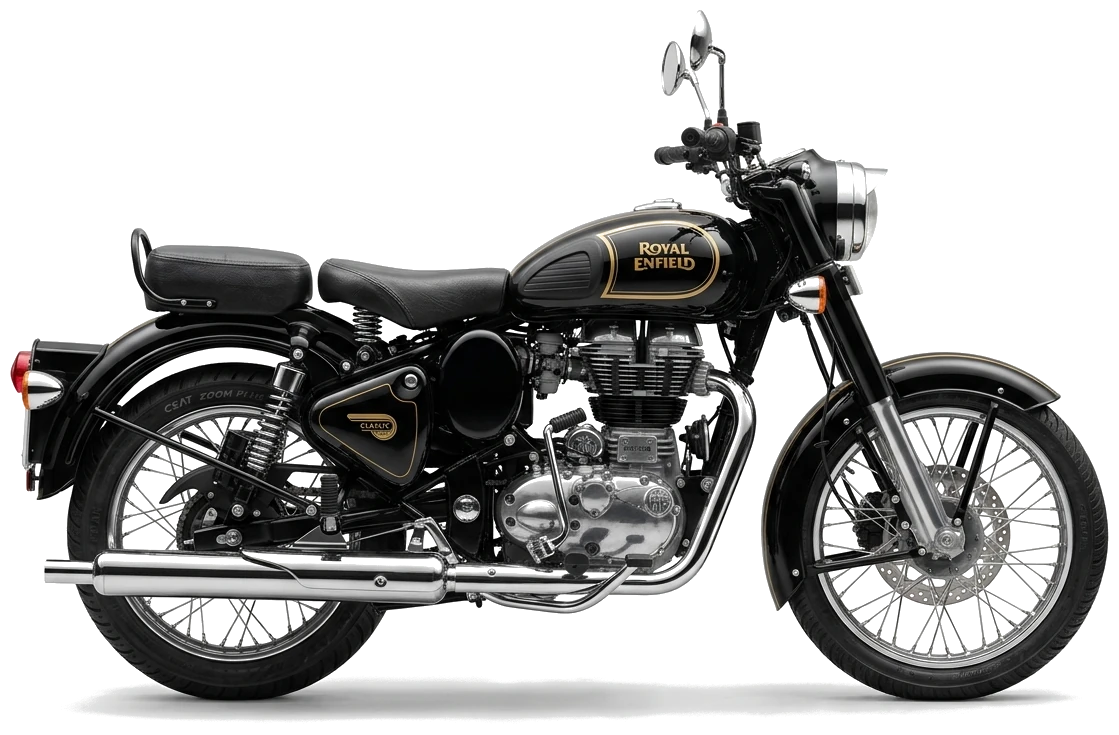
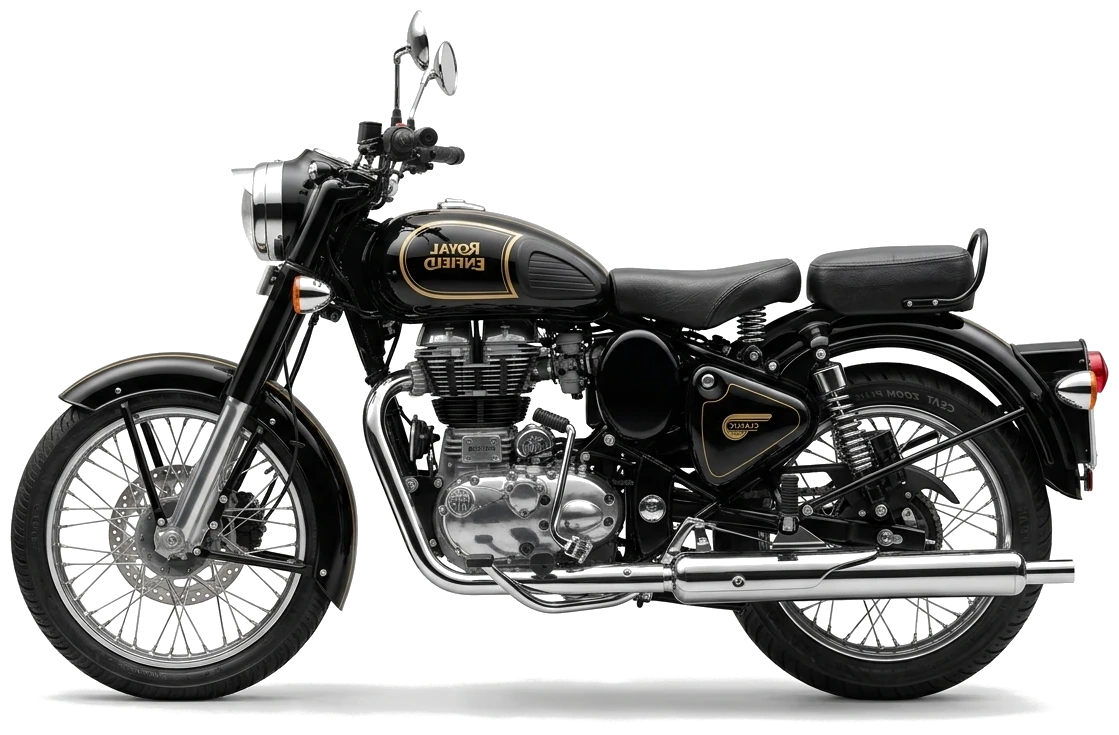
Fix vehicle tyre cutoff on turntable and unify all vehicles to face left site-wide

diff --git a/assets/css/style.css b/assets/css/style.css
@@ -6533,18 +6533,17 @@ button.bixi-cal-day.empty,
 .turntable-plate-stage {
   position: relative !important;
   width: 460px !important;
-  height: 400px !important;
+  height: 380px !important;
   display: flex !important;
-  align-items: center !important;
+  align-items: flex-end !important;
   justify-content: center !important;
-  transform-style: preserve-3d !important;
   z-index: 2 !important;
 }
 
 /* THE ROTATING TURNTABLE PLATTER DISC (From Instagram Reel) */
 .turntable-platter-disc {
   position: absolute !important;
-  bottom: 30px !important;
+  bottom: 0px !important;
   width: 440px !important;
   height: 180px !important;
   border-radius: 50% !important;
@@ -6594,20 +6593,22 @@ button.bixi-cal-day.empty,
 .turntable-vehicles-wrap {
   position: relative !important;
   width: 100% !important;
-  height: 320px !important;
+  height: 300px !important;
   display: flex !important;
-  align-items: center !important;
+  align-items: flex-end !important;
   justify-content: center !important;
-  z-index: 2 !important;
+  z-index: 10 !important;
   pointer-events: none !important;
+  margin-bottom: 24px !important;
 }
 
 .turntable-vehicle-slide {
   position: absolute !important;
+  bottom: 0 !important;
   width: 100% !important;
   height: 100% !important;
   display: flex !important;
-  align-items: center !important;
+  align-items: flex-end !important;
   justify-content: center !important;
   opacity: 0 !important;
   transform: scale(0.82) rotate(45deg) !important;
@@ -6620,7 +6621,7 @@ button.bixi-cal-day.empty,
   opacity: 1 !important;
   transform: scale(1) rotate(0deg) !important;
   pointer-events: auto !important;
-  z-index: 5 !important;
+  z-index: 10 !important;
 }
 
 .turntable-vehicle-slide.spin-out-left {
@@ -6655,12 +6656,13 @@ button.bixi-cal-day.empty,
 
 .turntable-vehicle-img {
   max-width: 90% !important;
-  max-height: 250px !important;
+  max-height: 245px !important;
   width: auto !important;
   height: auto !important;
   object-fit: contain !important;
-  filter: drop-shadow(0 20px 25px rgba(0, 0, 0, 0.85)) !important;
+  filter: drop-shadow(0 15px 22px rgba(0, 0, 0, 0.85)) !important;
   transition: transform 0.4s ease !important;
+  margin-bottom: 5px !important;
 }
 
 .turntable-vehicle-slide.active:hover .turntable-vehicle-img {
@@ -6669,13 +6671,14 @@ button.bixi-cal-day.empty,
 
 .vehicle-floor-shadow {
   position: absolute !important;
-  bottom: 22px !important;
+  bottom: 0px !important;
   width: 340px !important;
-  height: 35px !important;
+  height: 30px !important;
   border-radius: 50% !important;
   background: radial-gradient(ellipse at center, rgba(0, 0, 0, 0.85) 0%, rgba(0, 0, 0, 0) 70%) !important;
-  filter: blur(6px) !important;
+  filter: blur(5px) !important;
   pointer-events: none !important;
+  z-index: -1 !important;
 }
 
 /* Turntable Nav Arrows */
@@ -6728,16 +6731,13 @@ button.bixi-cal-day.empty,
   .hero-split-stage.hero-reel-showcase {
     display: flex !important;
     flex-direction: column !important;
-    gap: 1.25rem !important;
+    gap: 1.15rem !important;
     margin-bottom: 1.5rem !important;
+    align-items: center !important;
   }
 
   .hero-split-left.hero-reel-left {
-    display: flex !important;
-    flex-direction: column !important;
-    width: 100% !important;
-    text-align: center !important;
-    align-items: center !important;
+    display: contents !important;
   }
 
   .hero-eyebrow-badge {
@@ -6769,6 +6769,9 @@ button.bixi-cal-day.empty,
   .hero-split-right.hero-reel-right {
     order: 4 !important;
     margin: 0.25rem 0 0.85rem !important;
+    width: 100% !important;
+    display: flex !important;
+    justify-content: center !important;
   }
 
   /* Thumbnail discs right under the platter */
@@ -6778,6 +6781,7 @@ button.bixi-cal-day.empty,
     flex-direction: column !important;
     align-items: center !important;
     margin-bottom: 0.85rem !important;
+    width: 100% !important;
   }
 
   .reel-thumbnail-row {
@@ -6787,37 +6791,52 @@ button.bixi-cal-day.empty,
   .reel-counter-progress-bar {
     order: 6 !important;
     margin: 0 auto 1rem !important;
+    width: 100% !important;
+    max-width: 340px !important;
   }
 
   .reel-price-bar {
     order: 7 !important;
     margin: 0 auto 1.25rem !important;
+    max-width: 360px !important;
+    width: 100% !important;
   }
 
   .hero-split-cta-bar {
     order: 8 !important;
     justify-content: center !important;
     margin: 0 auto 1.25rem !important;
+    width: 100% !important;
   }
 
   .hero-subheadline.hero-reel-subheadline {
     order: 9 !important;
     text-align: center !important;
     margin: 0 auto 1.5rem !important;
+    max-width: 520px !important;
   }
 
   .turntable-plate-stage {
-    width: 380px !important;
-    height: 330px !important;
+    width: 100% !important;
+    max-width: 360px !important;
+    height: 290px !important;
   }
 
   .turntable-platter-disc {
-    width: 360px !important;
-    height: 150px !important;
+    width: 92% !important;
+    max-width: 340px !important;
+    height: 130px !important;
+    bottom: 0px !important;
+  }
+
+  .turntable-vehicles-wrap {
+    height: 250px !important;
+    margin-bottom: 20px !important;
   }
 
   .turntable-vehicle-img {
-    max-height: 200px !important;
+    max-width: 90% !important;
+    max-height: 195px !important;
   }
 }
 
